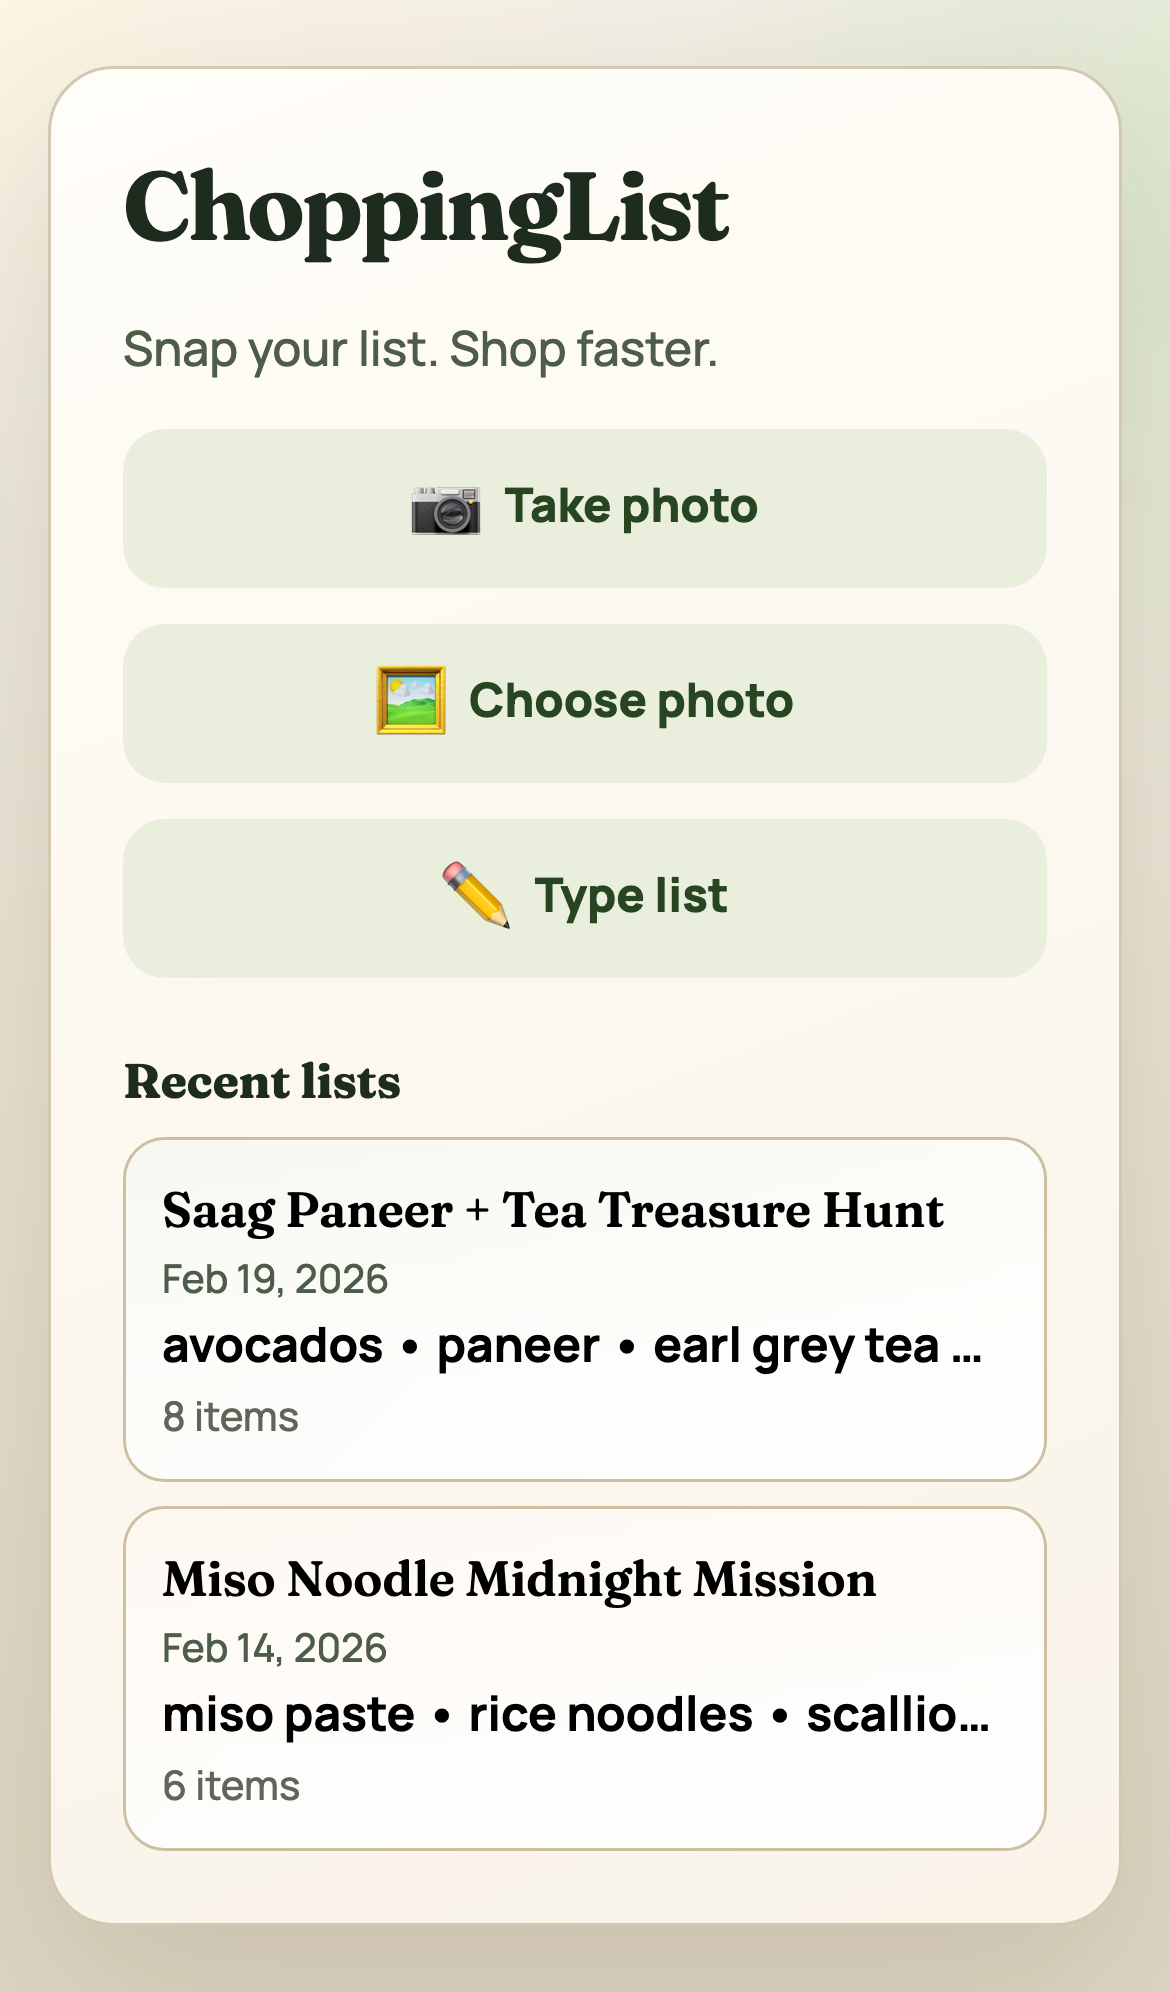
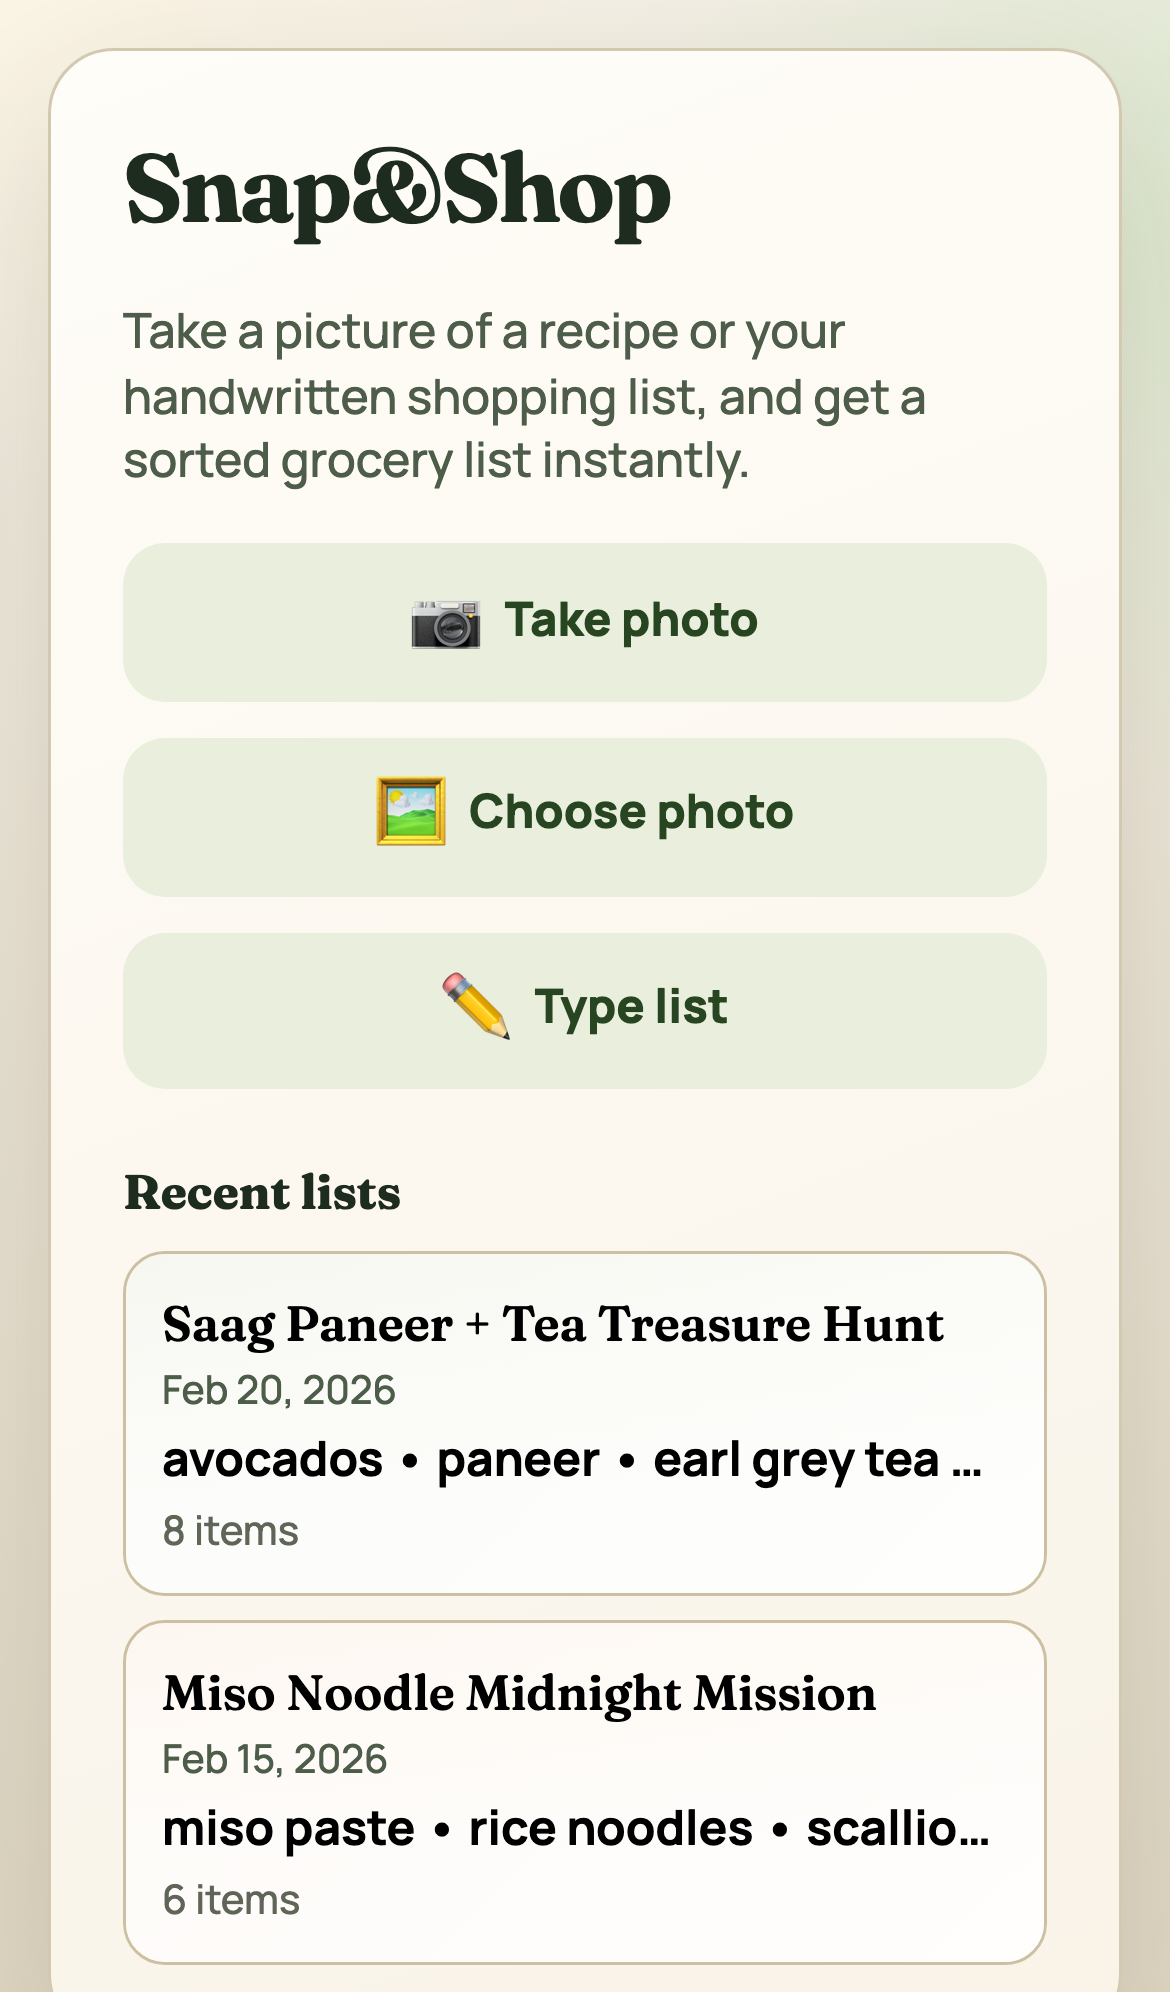
rename

diff --git a/vite.config.ts b/vite.config.ts
@@ -23,9 +23,9 @@ export default defineConfig({
       },
       includeAssets: ["icons/icon-192.png", "icons/icon-512.png"],
       manifest: {
-        name: "ChoppingList.store",
-        short_name: "ChoppingList",
-        description: "Snap your list. Shop faster.",
+        name: "Snap&Shop",
+        short_name: "Snap&Shop",
+        description: "Take a picture of a recipe or your handwritten shopping list, and get a sorted grocery list instantly.",
         theme_color: "#2f4f1f",
         background_color: "#f4f0e6",
         display: "standalone",

diff --git a/src/screens/Landing.tsx b/src/screens/Landing.tsx
@@ -218,7 +218,7 @@ export const Landing = (): JSX.Element => {
       onDrop={onDropFile}
     >
       <section className={`hero-card${dragActive ? " drag-active" : ""}`}>
-        <h1 className="hero-title">ChoppingList</h1>
+        <h1 className="hero-title">Snap&Shop</h1>
         <p className="hero-subtitle">Take a picture of a recipe or your handwritten shopping list, and get a sorted grocery list instantly.</p>
         <div className="cta-stack">
           <PrimaryButton

diff --git a/index.html b/index.html
@@ -5,7 +5,7 @@
     <meta name="viewport" content="width=device-width, initial-scale=1.0" />
     <meta name="theme-color" content="#2f4f1f" />
     <link rel="manifest" href="/manifest.webmanifest" />
-    <title>ChoppingList.store</title>
+    <title>Snap&Shop</title>
   </head>
   <body>
     <div id="root"></div>

diff --git a/README.md b/README.md
@@ -1,7 +1,8 @@
-# ChoppingList
+# Snap&Shop
 
 Turn a messy shopping-list photo into a clean, aisle-ordered checklist in seconds.
 Open the image, extract items with AI, and shop in store layout order without bouncing across aisles.
+Website: `snapand.shop`
 
 ## Stack
 
@@ -31,7 +32,7 @@ npm run test:e2e
 
 ## Product Spec
 
-See `docs/ChoppingList_Product_Spec.md`.
+See `docs/SnapAndShop_Product_Spec.md`.
 
 ## Screenshots (iPhone)
 
@@ -59,7 +60,7 @@ Static deploy:
 
 ```bash
 npm run build
-npx wrangler pages deploy dist --project-name=choppinglist
+npx wrangler pages deploy dist --project-name=snapand-shop
 ```
 
 Optional Worker proxy:

diff --git a/docs/SnapAndShop_Product_Spec.md b/docs/SnapAndShop_Product_Spec.md
@@ -1,8 +1,8 @@
-# ChoppingList.store Product Spec and Build Contract
+# snapand.shop Product Spec and Build Contract
 
 ## 1. Product Intent
 
-ChoppingList.store is a mobile-first web app that turns a photographed shopping list into an aisle-ordered checklist in seconds.
+Snap&Shop is a mobile-first web app at snapand.shop that turns a photographed shopping list into an aisle-ordered checklist in seconds.
 
 ### Core Promise
 - User gives a photo or gallery image.
@@ -206,4 +206,3 @@ E2E:
 - Section completion celebration fires when section becomes complete.
 - Unit tests pass.
 - Build succeeds in static mode.
-

diff --git a/docs/Definition_of_Done.md b/docs/Definition_of_Done.md
@@ -1,4 +1,4 @@
-# ChoppingList.store Definition of Done
+# snapand.shop Definition of Done
 
 1. User can complete flow from landing to checklist on mobile.
 2. App accepts camera capture and gallery upload.
@@ -15,4 +15,3 @@
 13. Unit test suite covers parsing, categorization, ordering, dedupe.
 14. E2E test suite covers typed flow and text-size persistence.
 15. Static build succeeds and can be deployed to Cloudflare Pages.
-
